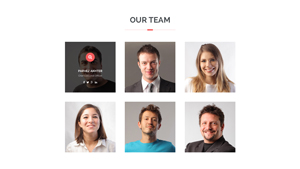
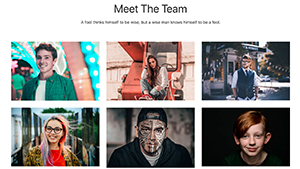
more blocks image changed :rocket:

diff --git a/blocks/teams/team-1/config.php b/blocks/teams/team-1/config.php
@@ -21,7 +21,7 @@ return array(
         array(
           array('name'=>'title', 'label' => 'Name', 'value' => 'Steve Jobs'),
           array('name'=>'designation', 'value' => 'CEO, Apple Inc'),
-          array('name'=>'image','type'=>'image', 'value' => 'http://s3.amazonaws.com/quantum-assets/images/4-thumb.jpg'),
+          array('name'=>'image','type'=>'image', 'value' => 'https://images.unsplash.com/photo-1500048993953-d23a436266cf?ixlib=rb-1.2.1&ixid=eyJhcHBfaWQiOjEyMDd9&auto=format&fit=crop&w=649&q=80'),
           array('name'=> 'social', 'label' => 'Social Profiles', 'value' => array('http://facebook.com/ThemeXpert', 'http://twitter.com/themexpert', 'http://linkedin.com/themexpert')),
           array('name'=>'link', 'placeholder'=> home_url()),
           array('name'=>'target', 'label'=>'open in new window', 'type'=>'switch'),
@@ -29,7 +29,7 @@ return array(
         array(
           array('name'=>'title', 'label' => 'Name', 'value' => 'Nikola Tesla'),
           array('name'=>'designation', 'value' => 'Scientist'),
-          array('name'=>'image','type'=>'image', 'value' => 'http://s3.amazonaws.com/quantum-assets/images/5-thumb.jpg'),
+          array('name'=>'image','type'=>'image', 'value' => 'https://images.unsplash.com/photo-1519838255388-73be30bda0e5?ixlib=rb-1.2.1&ixid=eyJhcHBfaWQiOjEyMDd9&auto=format&fit=crop&w=650&q=80'),
           array('name'=> 'social', 'label' => 'Social Profiles', 'value' => array('http://behance.net/ThemeXpert', 'http://dribbble.com/themexpert', 'http://twitter.com/themexpert.com')),
           array('name'=>'link', 'placeholder'=> home_url()),
           array('name'=>'target', 'label'=>'open in new window', 'type'=>'switch'),
@@ -37,7 +37,7 @@ return array(
         array(
           array('name'=>'title', 'label' => 'Name', 'value' => 'Elon Musk'),
           array('name'=>'designation', 'value' => 'CEO, Tesla Motors'),
-          array('name'=>'image','type'=>'image', 'value' => 'http://s3.amazonaws.com/quantum-assets/images/6-thumb.jpg'),
+          array('name'=>'image','type'=>'image', 'value' => 'https://images.unsplash.com/photo-1504593811423-6dd665756598?ixlib=rb-1.2.1&ixid=eyJhcHBfaWQiOjEyMDd9&auto=format&fit=crop&w=650&q=80'),
           array('name'=> 'social', 'label' => 'Social Profiles', 'value' => array('http://github.com/ThemeXpert', 'http://codepen.io/themexpert')),
           array('name'=>'link', 'placeholder'=> home_url()),
           array('name'=>'target', 'label'=>'open in new window', 'type'=>'switch'),
